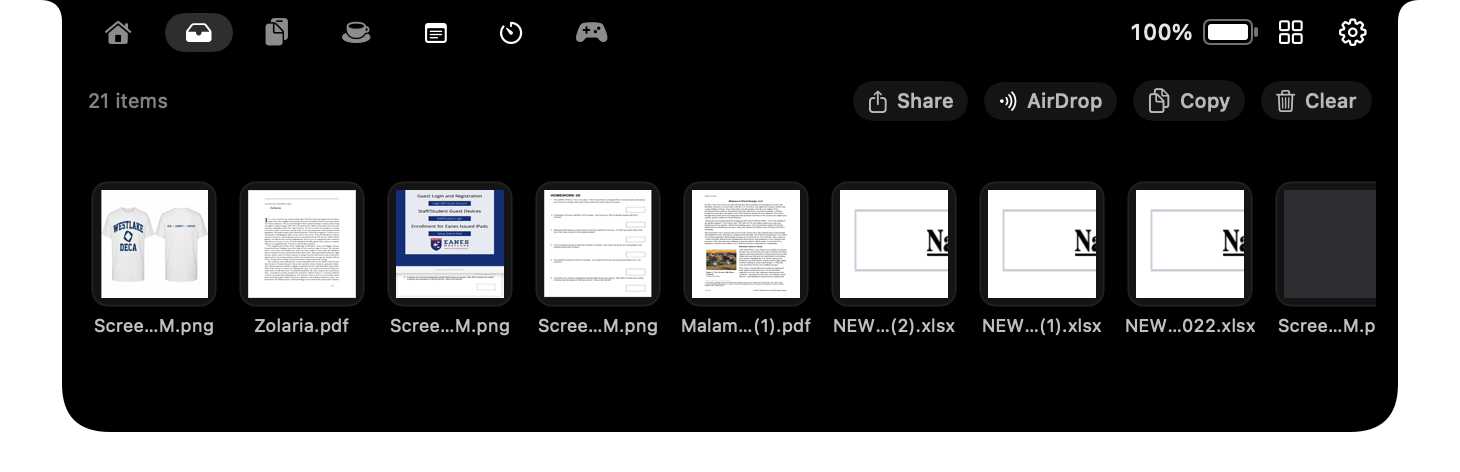
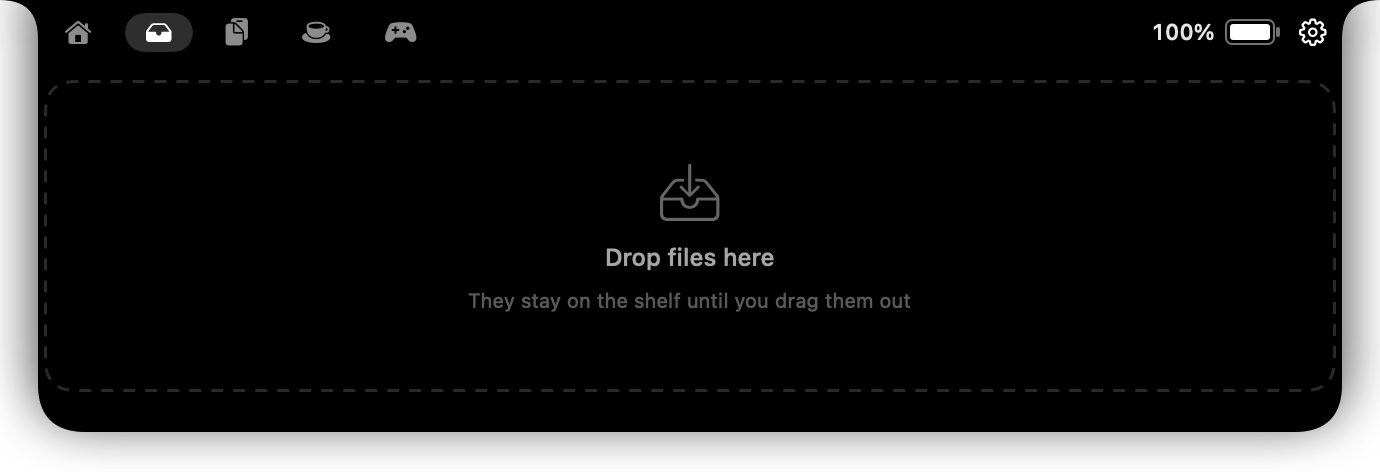
Replace the shelf screenshot: it captured the real shelf
--render-preview injects sample data for music, the HUD, focus, the timer,
the clipboard, screenshots and Bluetooth, but not for the shelf — that scene
just switches tabs and renders whatever is actually on it. On a machine with
an empty shelf that is the "Drop files here" state, which is what shipped
before. On this one it was twenty-one real files, including document
thumbnails and filenames that should not be in a public repository.

Restores the empty-shelf render and moves the README hero to the focus
scene, which the renderer synthesises end to end.

diff --git a/README.md b/README.md
@@ -1,6 +1,6 @@
 <div align="center">
 
-<img src="screenshots/open-shelf.png" alt="The FunNotch panel open in the notch, holding twenty-one dropped files with Share, AirDrop, Copy and Clear actions" width="860">
+<img src="screenshots/open-focus.png" alt="The FunNotch panel open in the notch, showing a focus session counting down beside the list of websites it is blocking" width="860">
 
 # FunNotch
 
@@ -59,7 +59,7 @@ Free and open source. No account, no subscription, no telemetry.
 <table>
 <tr>
 <td width="50%"><img src="screenshots/open-clipboard.png" alt="Searchable clipboard history, each entry labelled with the app it came from"><br><sub><b>Clipboard</b> — searchable, pinnable, and labelled with where each entry came from.</sub></td>
-<td width="50%"><img src="screenshots/open-focus.png" alt="A focus session counting down with a list of blocked websites"><br><sub><b>Focus</b> — a session counting down, with the sites it is holding shut.</sub></td>
+<td width="50%"><img src="screenshots/open-shelf.png" alt="The empty shelf inviting a file to be dropped onto the notch"><br><sub><b>Shelf</b> — drop a file on the notch and it is held until you drag it out.</sub></td>
 </tr>
 <tr>
 <td width="50%"><img src="screenshots/open-timer.png" alt="The timer tab with quick-start durations"><br><sub><b>Timer</b> — countdowns and a stopwatch with laps.</sub></td>
